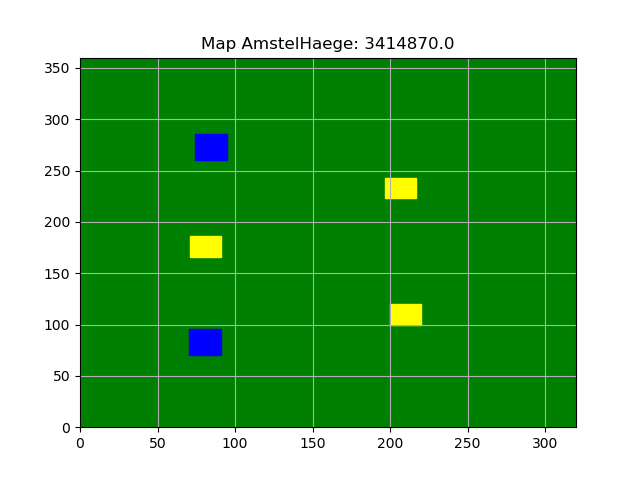
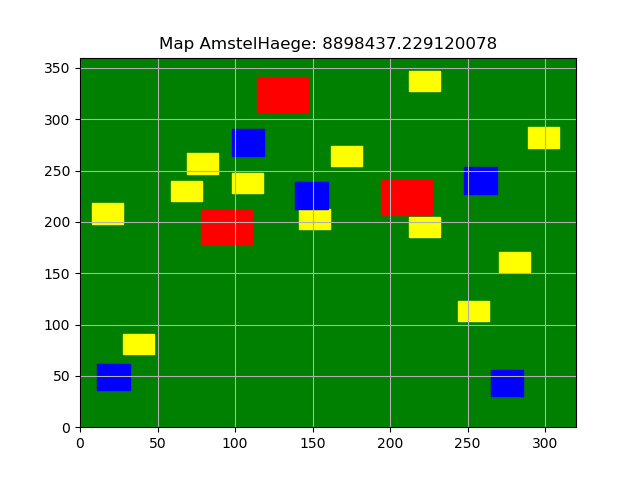
hoi

diff --git a/AmstelHaege/code/hill_climber_systematic.py b/AmstelHaege/code/hill_climber_systematic.py
@@ -29,57 +29,60 @@ def main():
     values = []
 
     counter = 1
-    while (counter >= 1):
-        counter = 0
-        index = 0
-        for house in rdm_amstelhaege.houses_placed:
-            print(index)
-            old_x = house.x
-            old_y = house.y
+    try:
+        while (counter >= 1):
+            counter = 0
+            index = 0
+            for house in rdm_amstelhaege.houses_placed:
+                print(index)
+                old_x = house.x
+                old_y = house.y
 
-            for y in range(0, rdm_amstelhaege.height - house.height, 1):
-                for x in range(0, rdm_amstelhaege.width - house.width, 1):
-                    old_x = house.x
-                    old_y = house.y
+                for y in range(0, rdm_amstelhaege.height - house.height, 1):
+                    for x in range(0, rdm_amstelhaege.width - house.width, 1):
+                        old_x = house.x
+                        old_y = house.y
 
-                    rdm_amstelhaege.move_house(index, x, y)
-                    # print(x,y)
+                        rdm_amstelhaege.move_house(index, x, y)
+                        # print(x,y)
 
-                    # if rdm_amstelhaege.legit_placement(house):
-                    not_possible = 0
-                    if not rdm_amstelhaege.houses_placed[index].in_map():
-                        not_possible += 1
-                        rdm_amstelhaege.move_house(index, old_x, old_y)
-                        # print("bye")
-
-                    else:
-                        for object in rdm_amstelhaege.houses_placed:
-                            if not object == rdm_amstelhaege.houses_placed[index]:
-                                if rdm_amstelhaege.houses_placed[index].intersect(object):
-                                    not_possible += 1
-                                    rdm_amstelhaege.move_house(index, old_x, old_y)
-                                # print(index)
-
-                    if not_possible == 0:
-                        # print("hoi")
-                        rdm_amstelhaege.calculate_totalvalue()
-                        # print(rdm_amstelhaege.value)
-                        # rdm_amstelhaege.plot_distribution()
-
-                        if rdm_amstelhaege.value > total_value:
-                            total_value = rdm_amstelhaege.value
-                            values.append(rdm_amstelhaege.value)
-                            # best_plot = rdm_amstelhaege
-                            counter += 1
-                            # rdm_amstelhaege.plot_distribution()
-                            # print("more")
-                            # file.write(str(total_value)+ "\n")
-                            # print(total_value)
-                            # print(rdm_amstelhaege.houses_placed[0].x)
-                            # print(rdm_amstelhaege.houses_placed[1].x)
-                        else:
+                        # if rdm_amstelhaege.legit_placement(house):
+                        not_possible = 0
+                        if not rdm_amstelhaege.houses_placed[index].in_map():
+                            not_possible += 1
                             rdm_amstelhaege.move_house(index, old_x, old_y)
-            index += 1
+                            # print("bye")
+
+                        else:
+                            for object in rdm_amstelhaege.houses_placed:
+                                if not object == rdm_amstelhaege.houses_placed[index]:
+                                    if rdm_amstelhaege.houses_placed[index].intersect(object):
+                                        not_possible += 1
+                                        rdm_amstelhaege.move_house(index, old_x, old_y)
+                                    # print(index)
+
+                        if not_possible == 0:
+                            # print("hoi")
+                            rdm_amstelhaege.calculate_totalvalue()
+                            # print(rdm_amstelhaege.value)
+                            # rdm_amstelhaege.plot_distribution()
+
+                            if rdm_amstelhaege.value > total_value:
+                                total_value = rdm_amstelhaege.value
+                                values.append(rdm_amstelhaege.value)
+                                # best_plot = rdm_amstelhaege
+                                counter += 1
+                                # rdm_amstelhaege.plot_distribution()
+                                # print("more")
+                                # file.write(str(total_value)+ "\n")
+                                # print(total_value)
+                                # print(rdm_amstelhaege.houses_placed[0].x)
+                                # print(rdm_amstelhaege.houses_placed[1].x)
+                            else:
+                                rdm_amstelhaege.move_house(index, old_x, old_y)
+                index += 1
+    except KeyboardInterrupt:
+        print(values)
 
     endtime = datetime.datetime.now()
     print(endtime.strftime("%Y-%m-%d %H:%M:%S")+ "\n")

diff --git a/AmstelHaege/code/hill_climber_rdm_sys.py b/AmstelHaege/code/hill_climber_rdm_sys.py
@@ -1,0 +1,90 @@
+import csv
+import pandas as pd
+import numpy as np
+from random import randint
+import matplotlib.pyplot as plt
+from class_house import House_types, House, Bungalow, Maison
+from class_area import Area
+import greedy_obj_func
+import datetime
+
+TOTAL_HOUSES = [20, 40, 60]
+PERCENTAGES = [0.15, 0.35, 0.6]
+WIDTH = 320
+HEIGHT = 360
+
+def main():
+
+    rdm_amstelhaege = Area(20)
+    rdm_amstelhaege.place_houses()
+    # rdm_amstelhaege = greedy_obj_func.main()
+    rdm_amstelhaege.calculate_totalvalue()
+    total_value = rdm_amstelhaege.value
+    rdm_amstelhaege.plot_distribution()
+    print(total_value)
+    # best_plot = rdm_amstelhaege
+    # file = open("values_systematic_20_06122018.txt", "w")
+    starttime = datetime.datetime.now()
+    print(starttime.strftime("%Y-%m-%d %H:%M:%S") +"\n")
+    values = []
+
+    for i in range(10):
+        index = randint(0, (len(rdm_amstelhaege.houses_placed) - 1))
+        print(index)
+
+        for y in range(0, rdm_amstelhaege.height - rdm_amstelhaege.houses_placed[index].height, 1):
+            for x in range(0, rdm_amstelhaege.width - rdm_amstelhaege.houses_placed[index].width, 1):
+                old_x = rdm_amstelhaege.houses_placed[index].x
+                old_y = rdm_amstelhaege.houses_placed[index].y
+
+                rdm_amstelhaege.move_house(index, x, y)
+                # print(x,y)
+
+                # if rdm_amstelhaege.legit_placement(house):
+                not_possible = 0
+                if not rdm_amstelhaege.houses_placed[index].in_map():
+                    not_possible += 1
+                    rdm_amstelhaege.move_house(index, old_x, old_y)
+                    # print("bye")
+
+                else:
+                    for object in rdm_amstelhaege.houses_placed:
+                        if not object == rdm_amstelhaege.houses_placed[index]:
+                            if rdm_amstelhaege.houses_placed[index].intersect(object):
+                                not_possible += 1
+                                rdm_amstelhaege.move_house(index, old_x, old_y)
+                            # print(index)
+
+                if not_possible == 0:
+                    # print("hoi")
+                    rdm_amstelhaege.calculate_totalvalue()
+                    # print(rdm_amstelhaege.value)
+                    # rdm_amstelhaege.plot_distribution()
+
+                    if rdm_amstelhaege.value > total_value:
+                        total_value = rdm_amstelhaege.value
+                        values.append(rdm_amstelhaege.value)
+                        # best_plot = rdm_amstelhaege
+                        # rdm_amstelhaege.plot_distribution()
+                        # print("more")
+                        # file.write(str(total_value)+ "\n")
+                        # print(total_value)
+                        # print(rdm_amstelhaege.houses_placed[0].x)
+                        # print(rdm_amstelhaege.houses_placed[1].x)
+                    else:
+                        rdm_amstelhaege.move_house(index, old_x, old_y)
+        index += 1
+
+    endtime = datetime.datetime.now()
+    print(endtime.strftime("%Y-%m-%d %H:%M:%S")+ "\n")
+    print(values)
+    # file.write(str(total_value))
+    # file.close()
+    # print(total_value)
+    # print(best_plot.houses_placed[0].x)
+    # print(best_plot.houses_placed[1].x)
+    fig = rdm_amstelhaege.plot_distribution()
+    fig.savefig('rand_sys.png')
+
+if __name__ == "__main__":
+    main()

diff --git a/AmstelHaege/code/hill_climber_random.py b/AmstelHaege/code/hill_climber_random.py
@@ -15,9 +15,9 @@ HEIGHT = 360
 
 def main():
     list_random_climber_values = []
-    rdm_amstelhaege = Area(20)
-    rdm_amstelhaege.place_houses()
-    # rdm_amstelhaege = greedy_obj_func.main()
+    # rdm_amstelhaege = Area(5)
+    # rdm_amstelhaege.place_houses()
+    rdm_amstelhaege = greedy_obj_func.main()
     rdm_amstelhaege.calculate_totalvalue()
     total_value = rdm_amstelhaege.value
     rdm_amstelhaege.plot_distribution()
@@ -26,7 +26,7 @@ def main():
     # file = open("values_systematic_20_06122018.txt", "w")
     starttime = datetime.datetime.now()
     print(starttime.strftime("%Y-%m-%d %H:%M:%S") +"\n")
-    
+
     counter_iteration = 0
     list_x_values = []
 
@@ -42,7 +42,7 @@ def main():
 
         rdm_amstelhaege.move_house(index,y,x)
 
-        not_possible = 0 
+        not_possible = 0
         if not rdm_amstelhaege.houses_placed[index].in_map():
             not_possible += 1
             rdm_amstelhaege.move_house(index, old_x, old_y)
@@ -55,7 +55,7 @@ def main():
                         not_possible += 1
                         rdm_amstelhaege.move_house(index, old_x, old_y)
                         # print(index)
-        
+
         if not_possible == 0:
             # print("hoi")
             rdm_amstelhaege.calculate_totalvalue()
@@ -66,7 +66,7 @@ def main():
                 print(rdm_amstelhaege.value)
                 # rdm_amstelhaege.plot_distribution()
                 list_x_values.append(counter_iteration)
-                
+
                 list_random_climber_values.append(rdm_amstelhaege.value)
                 total_value = rdm_amstelhaege.value
                 best_plot = rdm_amstelhaege
@@ -86,10 +86,11 @@ def main():
     # file.write(str(total_value))
     # file.close()
     print(total_value)
+    rdm_amstelhaege.calculate_totalvalue
     # print(best_plot.houses_placed[0].x)
     # print(best_plot.houses_placed[1].x)
     fig = rdm_amstelhaege.plot_distribution()
-    fig.savefig('random_hillclimber.png')
+    fig.savefig('greedy_obj_hillclimber.png')
     print(list_random_climber_values)
     # the histogram of the data
 
@@ -100,7 +101,7 @@ def main():
     plt.grid(True)
     plt.show()
 
-    
+
 
 
 if __name__ == "__main__":

diff --git a/AmstelHaege/code/greedy_obj_func.py b/AmstelHaege/code/greedy_obj_func.py
@@ -27,7 +27,7 @@ start_time = time.process_time()
 
 def main():
     counter = 0
-    amstelhaege = Area(60)
+    amstelhaege = Area(5)
     # house = House(0, 0, 0)
     # bungalow = Bungalow(0, 0, 0)
     # maison = Maison(0, 0, 0)
@@ -91,7 +91,7 @@ def main():
             counter += 1
             amstelhaege.calculate_totalvalue()
             fig = amstelhaege.plot_distribution()
-            fig.savefig("../resultaten/greedy_obj_func(60)/" + "house" + str(counter) + ".png")
+            fig.savefig("../resultaten/greedy_obj_func(20)/" + "house" + str(counter) + ".png")
             plt.close(fig)
 
         elif len(amstelhaege.houses_placed) < ((amstelhaege.amount_houses * amstelhaege.portions[2]) + (amstelhaege.amount_houses * amstelhaege.portions[1])):
@@ -147,7 +147,7 @@ def main():
             counter += 1
             amstelhaege.calculate_totalvalue()
             fig = amstelhaege.plot_distribution()
-            fig.savefig("../resultaten/greedy_obj_func(60)/" + "house" + str(counter) + ".png")
+            fig.savefig("../resultaten/greedy_obj_func(20)/" + "house" + str(counter) + ".png")
             plt.close(fig)
         else:
 
@@ -202,7 +202,7 @@ def main():
             counter += 1
             amstelhaege.calculate_totalvalue()
             fig = amstelhaege.plot_distribution()
-            fig.savefig("../resultaten/greedy_obj_func(60)/" + "house" + str(counter) + ".png")
+            fig.savefig("../resultaten/greedy_obj_func(20)/" + "house" + str(counter) + ".png")
             plt.close(fig)
 
 
@@ -210,7 +210,7 @@ def main():
     amstelhaege.calculate_totalvalue()
     print(amstelhaege.value)
     fig = amstelhaege.plot_distribution()
-    fig.savefig("../resultaten/greedy_obj_func(60)/" + "amstelhaege" + ".png")
+    fig.savefig("../resultaten/greedy_obj_func(20)/" + "amstelhaege" + ".png")
     plt.close(fig)
     print("--- %s seconds ---" % (time.process_time() - start_time))
 
